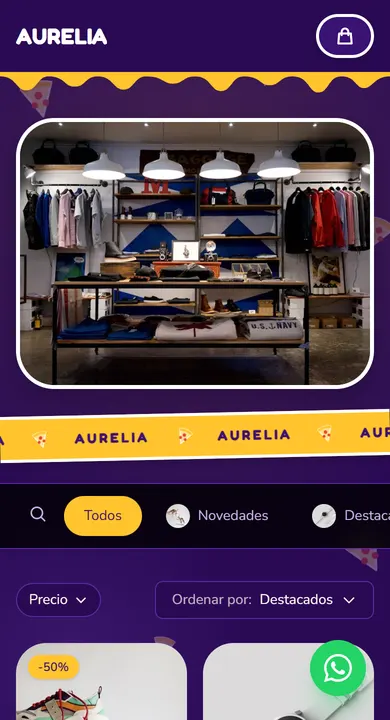
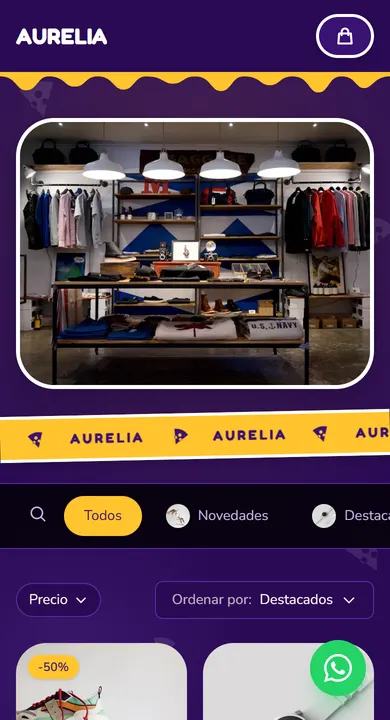
style(fiesta): porciones como silueta monocroma, no caricatura
La porcion dibujada con masa dorada, queso claro y pepperoni rojo se veia a
dibujito. Se reemplaza por una silueta: una sola forma en currentColor con los
pepperoni CALADOS via fillRule evenodd, asi cada uso decide su tinte.

- Flotantes del fondo: blancas al 10% de opacidad. Marca de agua, no clip art.
- Marquesina: tinta sobre el dorado de la banda.
- La porcion que muerde el panda: tinta como sus parches, con un halo blanco
  de drop-shadow para despegarla del arco dorado.

El panda queda como estaba; el reclamo era por las porciones de colores.
Verificado: 17 siluetas renderizadas, todas en blanco o tinta, cero restos de
los colores de caricatura, flotantes al 0.1 de opacidad. Miniatura regenerada
(solo fiesta: el generador no cambio).

diff --git a/src/themes/fiesta/FiestaTheme.tsx b/src/themes/fiesta/FiestaTheme.tsx
@@ -108,23 +108,25 @@ const outlined = (extra: React.CSSProperties = {}): React.CSSProperties => ({
 // SVGs PROPIOS DEL TEMA
 // =====================================================
 
-/** Porcion de pizza: masa dorada, queso claro, pepperoni rojo como el logo. */
+/**
+ * Silueta de porcion de pizza, monocroma. Una sola forma en `currentColor`
+ * con los pepperoni CALADOS (fillRule evenodd): el color lo decide quien la
+ * usa, y a baja opacidad funciona como marca de agua sobre el morado.
+ */
 function PizzaSlice({ size = 44, rotate = 0, className = '', style = {} }: {
   size?: number; rotate?: number; className?: string; style?: React.CSSProperties
 }) {
   return (
     <svg width={size} height={size} viewBox="0 0 64 64" className={className}
+         fill="currentColor"
          style={{ transform: `rotate(${rotate}deg)`, ...style }} aria-hidden="true">
-      {/* triangulo de queso */}
-      <path d="M32 58 L10 14 Q32 4 54 14 Z" fill="#FFDF8E" stroke="#fff" strokeWidth="3" strokeLinejoin="round" />
-      {/* borde de masa */}
-      <path d="M10 14 Q32 4 54 14 L51 21 Q32 12 13 21 Z" fill={DORADO} />
-      {/* pepperoni */}
-      <circle cx="32" cy="28" r="5.5" fill="#E8442E" />
-      <circle cx="24" cy="40" r="4.5" fill="#E8442E" />
-      <circle cx="40" cy="40" r="4.5" fill="#E8442E" />
-      {/* gota de queso que cae del vertice */}
-      <path d="M30 50 Q32 58 34 50 Q33 47 32 47 Q31 47 30 50Z" fill="#FFDF8E" />
+      <path
+        fillRule="evenodd"
+        d="M32 60 L8 16 Q32 4 56 16 Z
+           M32 22 a5.5 5.5 0 1 0 0.001 0 Z
+           M23 35 a4.5 4.5 0 1 0 0.001 0 Z
+           M39 35 a4.5 4.5 0 1 0 0.001 0 Z"
+      />
     </svg>
   )
 }
@@ -278,9 +280,10 @@ export default function FiestaTheme({ store, products, categories, onWhatsAppCli
                style={{ background: `radial-gradient(circle, ${DORADO} 0%, transparent 60%)` }} />
           <div className="absolute bottom-[-140px] left-[-120px] w-96 h-96 rounded-full opacity-[0.14]"
                style={{ background: `radial-gradient(circle, ${MORADO_CLARO} 0%, transparent 65%)` }} />
+          {/* Siluetas blancas a muy baja opacidad: marca de agua, no caricatura. */}
           {slicesFlotantes.map((s, i) => (
-            <div key={i} className="absolute fiesta-bob opacity-[0.32]"
-                 style={{ top: s.top, left: s.left, ['--rot' as string]: `${s.rotate}deg`, ['--dur' as string]: `${s.dur}s`, ['--delay' as string]: `${s.delay}s` }}>
+            <div key={i} className="absolute fiesta-bob opacity-[0.10]"
+                 style={{ top: s.top, left: s.left, color: '#ffffff', ['--rot' as string]: `${s.rotate}deg`, ['--dur' as string]: `${s.dur}s`, ['--delay' as string]: `${s.delay}s` }}>
               <PizzaSlice size={s.size} />
             </div>
           ))}
@@ -374,8 +377,10 @@ export default function FiestaTheme({ store, products, categories, onWhatsAppCli
                 <div className="relative fiesta-bob" style={{ ['--dur' as string]: '9s' }}>
                   <PandaFace size={200} />
                 </div>
-                {/* la porcion que esta mordiendo */}
-                <div className="absolute -left-6 bottom-2 rotate-[-24deg]">
+                {/* la porcion que esta mordiendo: silueta en tinta, como los
+                    parches del panda, con un halo blanco para despegarla */}
+                <div className="absolute -left-6 bottom-2 rotate-[-24deg]"
+                     style={{ color: TINTA, filter: 'drop-shadow(0 0 2px #fff) drop-shadow(0 0 1px #fff)' }}>
                   <PizzaSlice size={72} />
                 </div>
               </div>
@@ -417,7 +422,7 @@ export default function FiestaTheme({ store, products, categories, onWhatsAppCli
                         style={{ fontFamily: fiestaTheme.fonts.heading, fontWeight: 700, color: TINTA }}>
                     {store.name}
                   </span>
-                  <PizzaSlice size={20} rotate={i % 2 ? 25 : -15} />
+                  <PizzaSlice size={20} rotate={i % 2 ? 25 : -15} style={{ color: TINTA }} />
                 </span>
               ))}
             </div>
